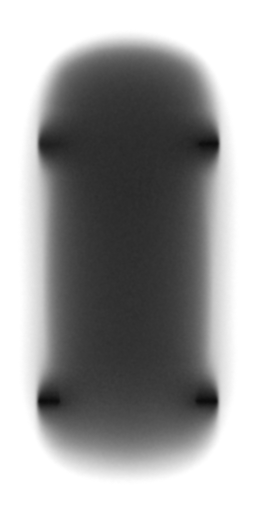
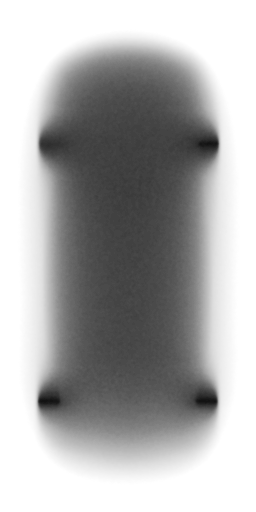
Examples: Improved webgl_materials_car ao.

diff --git a/examples/webgl_materials_car.html b/examples/webgl_materials_car.html
@@ -157,7 +157,7 @@
 					var shadow = new THREE.Mesh(
 						new THREE.PlaneBufferGeometry( 0.655 * 4, 1.3 * 4 ),
 						new THREE.MeshBasicMaterial( {
-							map: texture, opacity: 0.4, transparent: true
+							map: texture, blending: THREE.MultiplyBlending, toneMapped: false, transparent: true
 						} )
 					);
 					shadow.rotation.x = - Math.PI / 2;
